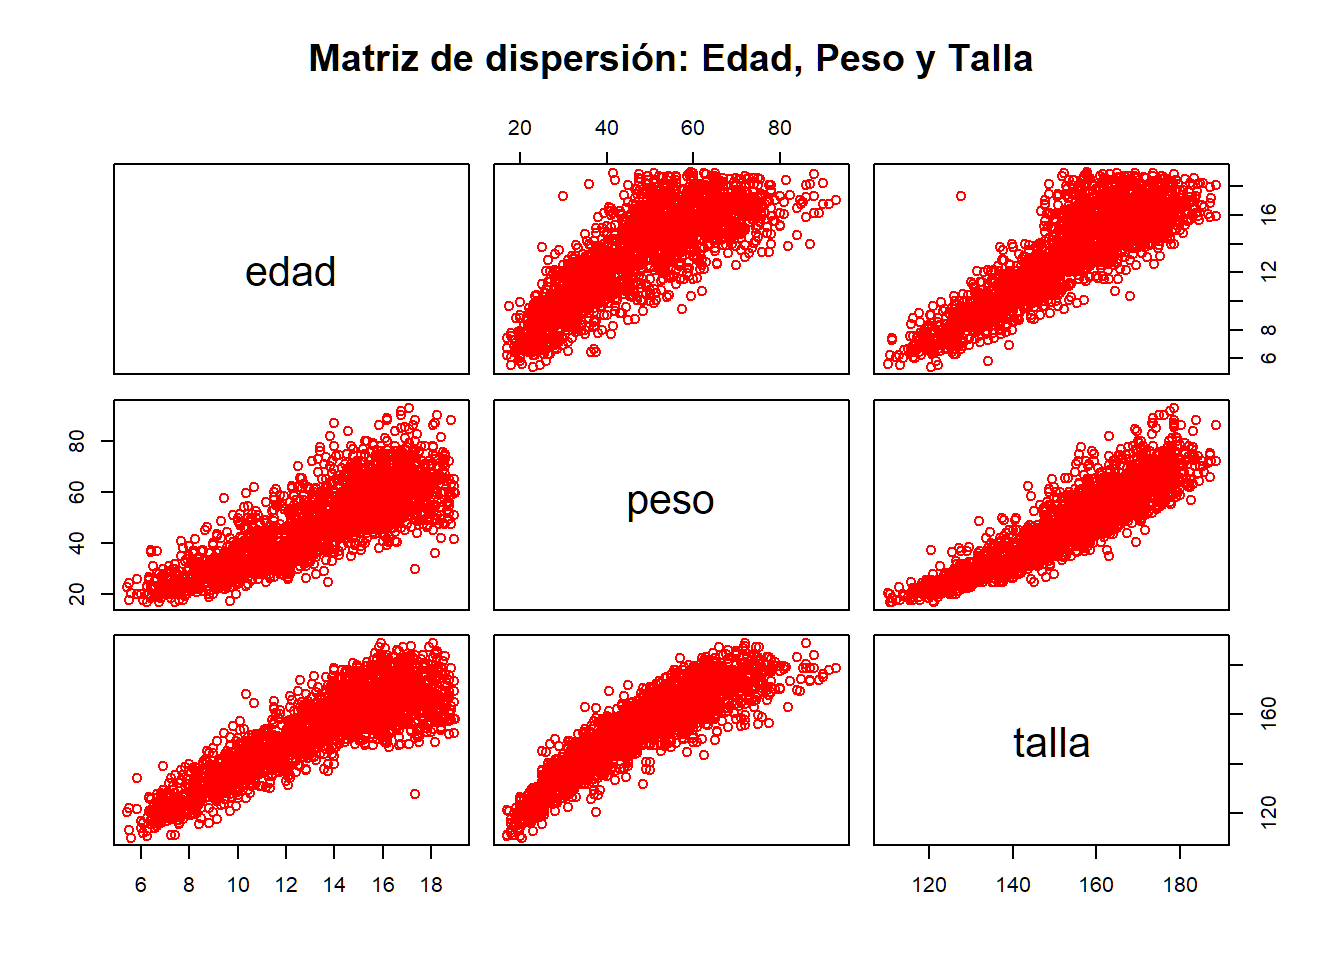
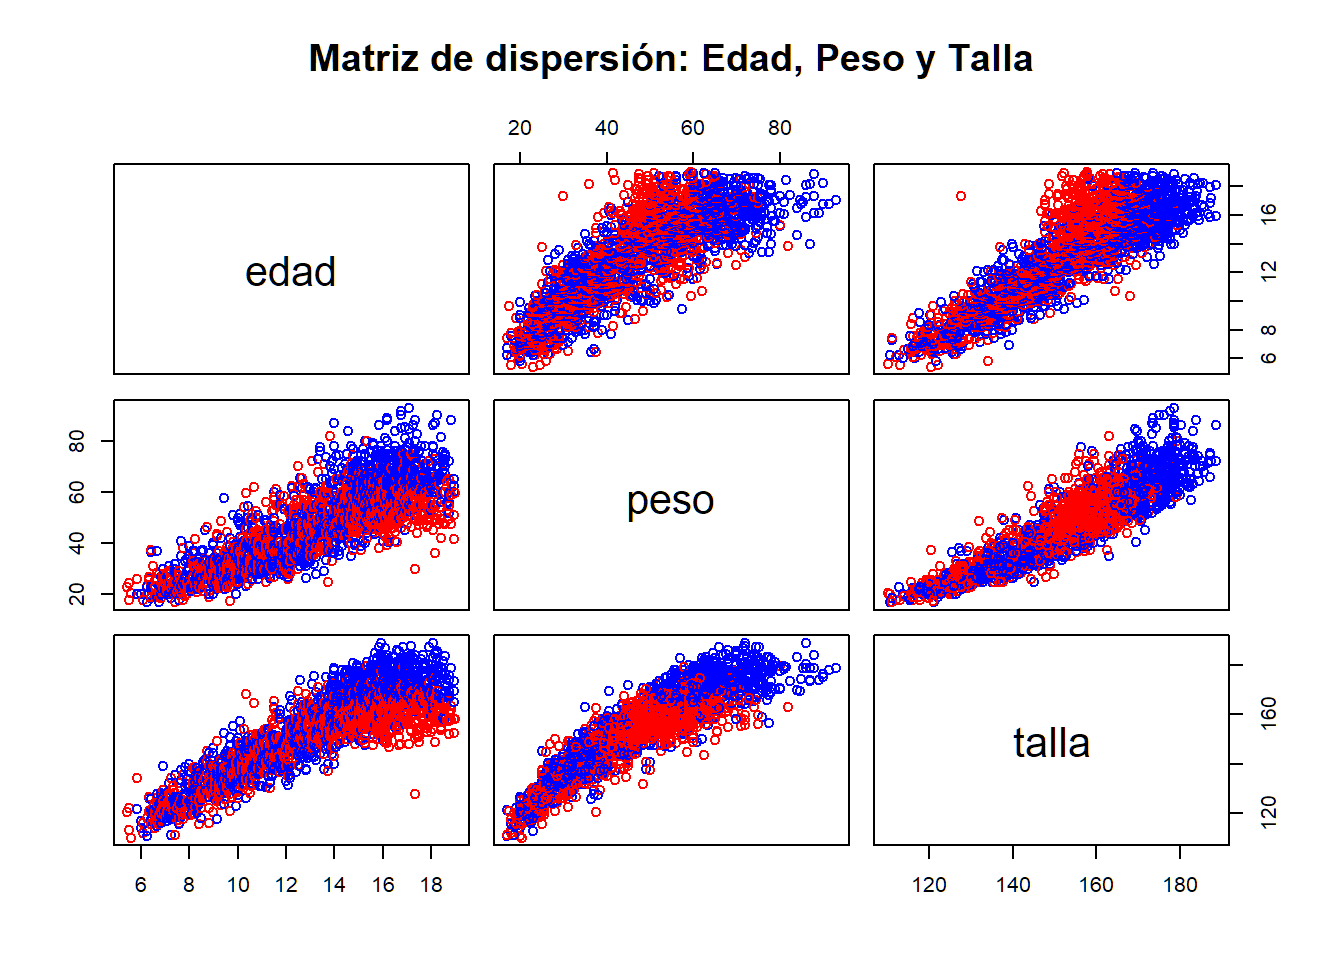
Segundo despliegueg

diff --git a/docs/G_tabla_frecuencias.html b/docs/G_tabla_frecuencias.html
@@ -704,38 +704,51 @@ límite superior</strong> <code>(a,b]</code>.</p>
 </ul>
 <p>3⃣ <code>temp_intervalos</code> → factor con el <strong>intervalo
 asignado a cada temperatura</strong>.</p>
+<hr />
 </div>
-<div id="aplicación-práctica-en-pediatría" class="section level3">
-<h3>Aplicación práctica en Pediatría</h3>
-<p>Podemos usar <code>aggregate()</code> para resumir datos numéricos
-según los intervalos de edad creados.</p>
+</div>
+<div id="aplicación-práctica-en-pediatría" class="section level2">
+<h2>Aplicación práctica en Pediatría</h2>
+<p>Este código es un clásico de la <strong>bioestadística</strong>.
+Básicamente, estás pasando de tener datos de niños sueltos a tener un
+“perfil promedio” de cómo crecen año tras año.</p>
+<p><strong>Contexto:</strong> Dispones de un conjunto de datos clínico
+llamado <code>children.csv</code> que contiene mediciones físicas (peso,
+altura, etc.) de una muestra de pacientes en edad de crecimiento. El
+objetivo es analizar cómo evolucionan estos indicadores de salud a
+<strong>medida que los niños maduran (<code>edad</code>).</strong></p>
+<p><strong>Instrucciones:</strong></p>
+<ol style="list-style-type: decimal">
+<li><p><strong>Importación:</strong> Se carga el conjunto de datos
+<code>children.csv</code>, utilizando el formato europeo de CSV (punto y
+coma) que contiene la <strong>columna <code>edad</code></strong> y otras
+varias variables numéricas (peso, altura, talla, etc.).</p>
 <ul>
-<li><p><strong>Lectura de datos</strong><br />
-Se carga el conjunto de datos <code>children.csv</code>, que contiene la
-columna <code>edad</code> y varias variables numéricas (peso, altura,
-talla, etc.).</p></li>
-<li><p><strong>Agrupación por intervalos</strong><br />
-Se crean intervalos de edad de 1 año (por ejemplo, de 5 a 19 años)
-utilizando la función <code>cut()</code>. Cada niño queda asignado al
-intervalo correspondiente según su edad.</p></li>
-<li><p><strong>Cálculo de medias</strong><br />
-Se calcula la media de cada variable numérica para cada intervalo de
-edad con <code>aggregate()</code>, ignorando valores faltantes. Esto
-genera un resumen donde cada fila representa un intervalo y cada columna
-la media de una variable.</p></li>
-<li><p><strong>Frecuencia de intervalos (opcional)</strong><br />
-Se puede comprobar cuántos niños hay en cada intervalo para interpretar
-correctamente las medias.</p></li>
+<li>Hacemos un <code>head()</code></li>
+</ul></li>
+</ol>
+<div class="sourceCode" id="cb31"><pre class="sourceCode r"><code class="sourceCode r"><span id="cb31-1"><a href="#cb31-1" tabindex="-1"></a><span class="co"># Paso 1: Importación</span></span>
+<span id="cb31-2"><a href="#cb31-2" tabindex="-1"></a>pediatria <span class="ot">&lt;-</span> <span class="fu">read.csv2</span>(<span class="st">&quot;children.csv&quot;</span>)</span>
+<span id="cb31-3"><a href="#cb31-3" tabindex="-1"></a><span class="fu">head</span>(pediatria)</span></code></pre></div>
+<pre><code>##     sexo edad peso talla
+## 1 hembra 5.42 23.0 120.5
+## 2 hembra 5.50 24.5 122.0
+## 3 hembra 5.50 18.0 113.0
+## 4 hembra 5.58 20.5 110.0
+## 5 hembra 5.83 26.0 134.2
+## 6  varon 5.83 20.0 121.5</code></pre>
+<ol start="2" style="list-style-type: decimal">
+<li><strong>Segmentación/agrupación:</strong> Queremos saber como
+evolucionan por tramos/segmentos/breaks de edad.</li>
+</ol>
+<ul>
+<li>Se crean <strong>intervalos</strong> de edad de 1 año (por ejemplo,
+desde 5 a 19 años) utilizando la función <code>cut()</code>. Cada niño
+queda asignado al intervalo correspondiente según su edad.</li>
 </ul>
-<div class="sourceCode" id="cb31"><pre class="sourceCode r"><code class="sourceCode r"><span id="cb31-1"><a href="#cb31-1" tabindex="-1"></a>pediatria <span class="ot">&lt;-</span> <span class="fu">read.csv2</span>(<span class="st">&quot;children.csv&quot;</span>)</span>
-<span id="cb31-2"><a href="#cb31-2" tabindex="-1"></a></span>
-<span id="cb31-3"><a href="#cb31-3" tabindex="-1"></a><span class="co"># Creamos intervalos de edad de 1 en 1 año (de 5 a 19)</span></span>
-<span id="cb31-4"><a href="#cb31-4" tabindex="-1"></a>edad_intervalos <span class="ot">&lt;-</span> <span class="fu">cut</span>(pediatria<span class="sc">$</span>edad, <span class="at">breaks =</span> <span class="fu">seq</span>(<span class="dv">5</span>, <span class="dv">19</span>))</span>
-<span id="cb31-5"><a href="#cb31-5" tabindex="-1"></a></span>
-<span id="cb31-6"><a href="#cb31-6" tabindex="-1"></a><span class="co"># Calculamos la media de todas las variables numéricas por cada grupo de edad</span></span>
-<span id="cb31-7"><a href="#cb31-7" tabindex="-1"></a>resumen_edad <span class="ot">&lt;-</span> <span class="fu">aggregate</span>(pediatria[, <span class="sc">-</span><span class="dv">1</span>], <span class="at">by =</span> <span class="fu">list</span>(<span class="at">edad =</span> edad_intervalos), </span>
-<span id="cb31-8"><a href="#cb31-8" tabindex="-1"></a>                          <span class="at">FUN =</span> mean, <span class="at">na.rm =</span> <span class="cn">TRUE</span>)</span></code></pre></div>
-<div class="sourceCode" id="cb32"><pre class="sourceCode r"><code class="sourceCode r"><span id="cb32-1"><a href="#cb32-1" tabindex="-1"></a>edad_intervalos</span></code></pre></div>
+<div class="sourceCode" id="cb33"><pre class="sourceCode r"><code class="sourceCode r"><span id="cb33-1"><a href="#cb33-1" tabindex="-1"></a><span class="co"># Paso 2: Segmentación: Creamos intervalos de edad de 1 en 1 año (de 5 a 19)</span></span>
+<span id="cb33-2"><a href="#cb33-2" tabindex="-1"></a>edad_intervalos <span class="ot">&lt;-</span> <span class="fu">cut</span>(pediatria<span class="sc">$</span>edad, <span class="at">breaks =</span> <span class="fu">seq</span>(<span class="dv">5</span>, <span class="dv">19</span>))</span>
+<span id="cb33-3"><a href="#cb33-3" tabindex="-1"></a>edad_intervalos</span></code></pre></div>
 <pre><code>##    [1] (5,6]   (5,6]   (5,6]   (5,6]   (5,6]   (5,6]   (5,6]   (5,6]   (6,7]  
 ##   [10] (6,7]   (6,7]   (6,7]   (6,7]   (6,7]   (6,7]   (6,7]   (6,7]   (6,7]  
 ##   [19] (6,7]   (6,7]   (6,7]   (6,7]   (6,7]   (6,7]   (6,7]   (6,7]   (6,7]  
@@ -998,7 +1011,27 @@ correctamente las medias.</p></li>
 ## [2332] (18,19] (18,19] (18,19] (18,19] (18,19] (18,19] (18,19] (18,19] (18,19]
 ## [2341] (18,19] (18,19] (18,19] (18,19] (18,19]
 ## 14 Levels: (5,6] (6,7] (7,8] (8,9] (9,10] (10,11] (11,12] (12,13] ... (18,19]</code></pre>
-<div class="sourceCode" id="cb34"><pre class="sourceCode r"><code class="sourceCode r"><span id="cb34-1"><a href="#cb34-1" tabindex="-1"></a>resumen_edad</span></code></pre></div>
+<p>Por ejemplo: el primer niño de 5,42 años se encuentra en el intervalo
+(5, 6]</p>
+<ol start="3" style="list-style-type: decimal">
+<li><strong>Cálculo de medias:</strong> Se calcula la
+<strong>media</strong> de <strong>cada variable numérica para cada
+intervalo de edad</strong> con <code>aggregate()</code>, ignorando
+valores faltantes. Esto genera un resumen donde cada fila representa un
+intervalo y cada columna la media de una variable.</li>
+</ol>
+<ul>
+<li>Se usa <code>aggregate()</code> para resumir datos numéricos según
+los intervalos de edad creados.</li>
+</ul>
+<div class="sourceCode" id="cb35"><pre class="sourceCode r"><code class="sourceCode r"><span id="cb35-1"><a href="#cb35-1" tabindex="-1"></a><span class="co"># Paso 3: Cálculo de medias: calculamos la media de todas las variables numéricas por cada grupo de edad</span></span>
+<span id="cb35-2"><a href="#cb35-2" tabindex="-1"></a>resumen_edad <span class="ot">&lt;-</span> <span class="fu">aggregate</span>(pediatria[, <span class="sc">-</span><span class="dv">1</span>], <span class="at">by =</span> <span class="fu">list</span>(<span class="at">edad =</span> edad_intervalos), <span class="at">FUN =</span> mean, <span class="at">na.rm =</span> <span class="cn">TRUE</span>)</span></code></pre></div>
+<ol start="4" style="list-style-type: decimal">
+<li><strong>Frecuencia de intervalos (opcional)</strong><br />
+Se puede comprobar cuántos niños hay en cada intervalo para interpretar
+correctamente las medias.</li>
+</ol>
+<div class="sourceCode" id="cb36"><pre class="sourceCode r"><code class="sourceCode r"><span id="cb36-1"><a href="#cb36-1" tabindex="-1"></a>resumen_edad</span></code></pre></div>
 <pre><code>##       edad      edad     peso    talla
 ## 1    (5,6]  5.707500 21.50000 118.9500
 ## 2    (6,7]  6.649310 23.40517 120.3414
@@ -1014,16 +1047,6 @@ correctamente las medias.</p></li>
 ## 12 (16,17] 16.511189 59.91294 167.2969
 ## 13 (17,18] 17.505679 61.77654 167.1420
 ## 14 (18,19] 18.438681 62.06264 167.5692</code></pre>
-<pre><code>
----
-
-### Cambios clave realizados:
-* **Claridad Terminológica:** He añadido la notación estándar ($n_i, N_i, f_i, F_i$) para que el código sea académicamente riguroso.
-* **Estructura:** Se ha separado el código en bloques lógicos, facilitando la ejecución paso a paso.
-* **Legibilidad:** He renombrado variables (como `temp2` a `temp_intervalos`) para que el código sea &quot;autodocumentado&quot;.
-* **Buenas prácticas:** Se ha incluido `na.rm = TRUE` en el ejemplo de `aggregate`, que es esencial para que el código no falle si faltan datos en el dataset de pediatría.
-</code></pre>
-</div>
 </div>
 
 

diff --git a/docs/F_coeficiente_correlacion.html b/docs/F_coeficiente_correlacion.html
@@ -463,17 +463,22 @@ relevante para el cálculo numérico).</p>
 <div id="matriz-de-gráficos-de-dispersión-pairs-plot"
 class="section level3">
 <h3>2. Matriz de gráficos de dispersión (Pairs Plot)</h3>
+<p>Con <code>pairs()</code> hacemos la matriz de gráficos de
+dispersión</p>
+<div class="sourceCode" id="cb7"><pre class="sourceCode r"><code class="sourceCode r"><span id="cb7-1"><a href="#cb7-1" tabindex="-1"></a><span class="fu">pairs</span>(pediatria_clean)</span></code></pre></div>
+<p><img src="F_coeficiente_correlacion_files/figure-html/unnamed-chunk-4-1.png" alt="" width="672" /></p>
+<p><strong>Mejorar la visualización:</strong></p>
 <p>Para visualizar las relaciones, utilizaremos la función
 <code>pairs()</code>. Añadimos color para diferenciar por la variable
 <code>sexo</code>.</p>
-<div class="sourceCode" id="cb7"><pre class="sourceCode r"><code class="sourceCode r"><span id="cb7-1"><a href="#cb7-1" tabindex="-1"></a><span class="co"># Definimos colores según el sexo (ajusta la columna según tu dataset)</span></span>
-<span id="cb7-2"><a href="#cb7-2" tabindex="-1"></a>colores <span class="ot">&lt;-</span> <span class="fu">ifelse</span>(pediatria<span class="sc">$</span>sexo <span class="sc">==</span> <span class="st">&quot;M&quot;</span>, <span class="st">&quot;blue&quot;</span>, <span class="st">&quot;red&quot;</span>) </span>
-<span id="cb7-3"><a href="#cb7-3" tabindex="-1"></a></span>
-<span id="cb7-4"><a href="#cb7-4" tabindex="-1"></a><span class="co"># Representamos las variables de interés: edad, peso y talla</span></span>
-<span id="cb7-5"><a href="#cb7-5" tabindex="-1"></a><span class="co"># Nota: Asegúrate de que los nombres de las columnas coincidan con tu CSV</span></span>
-<span id="cb7-6"><a href="#cb7-6" tabindex="-1"></a><span class="fu">pairs</span>(pediatria_clean[, <span class="fu">c</span>(<span class="st">&quot;edad&quot;</span>, <span class="st">&quot;peso&quot;</span>, <span class="st">&quot;talla&quot;</span>)], </span>
-<span id="cb7-7"><a href="#cb7-7" tabindex="-1"></a>      <span class="at">col =</span> colores, </span>
-<span id="cb7-8"><a href="#cb7-8" tabindex="-1"></a>      <span class="at">main =</span> <span class="st">&quot;Matriz de dispersión: Edad, Peso y Talla&quot;</span>)</span></code></pre></div>
+<div class="sourceCode" id="cb8"><pre class="sourceCode r"><code class="sourceCode r"><span id="cb8-1"><a href="#cb8-1" tabindex="-1"></a><span class="co"># Definimos colores según el sexo (ajusta la columna según tu dataset)</span></span>
+<span id="cb8-2"><a href="#cb8-2" tabindex="-1"></a>colores <span class="ot">&lt;-</span> <span class="fu">ifelse</span>(pediatria<span class="sc">$</span>sexo <span class="sc">==</span> <span class="st">&quot;varon&quot;</span>, <span class="st">&quot;blue&quot;</span>, <span class="st">&quot;red&quot;</span>) </span>
+<span id="cb8-3"><a href="#cb8-3" tabindex="-1"></a></span>
+<span id="cb8-4"><a href="#cb8-4" tabindex="-1"></a><span class="co"># Representamos las variables de interés: edad, peso y talla</span></span>
+<span id="cb8-5"><a href="#cb8-5" tabindex="-1"></a><span class="co"># Nota: Asegúrate de que los nombres de las columnas coincidan con tu CSV</span></span>
+<span id="cb8-6"><a href="#cb8-6" tabindex="-1"></a><span class="fu">pairs</span>(pediatria_clean[, <span class="fu">c</span>(<span class="st">&quot;edad&quot;</span>, <span class="st">&quot;peso&quot;</span>, <span class="st">&quot;talla&quot;</span>)], </span>
+<span id="cb8-7"><a href="#cb8-7" tabindex="-1"></a>      <span class="at">col =</span> colores, </span>
+<span id="cb8-8"><a href="#cb8-8" tabindex="-1"></a>      <span class="at">main =</span> <span class="st">&quot;Matriz de dispersión: Edad, Peso y Talla&quot;</span>)</span></code></pre></div>
 <p><img src="F_coeficiente_correlacion_files/figure-html/grafico-dispersion-1.png" alt="" width="672" /></p>
 </div>
 <div id="coeficiente-de-correlación" class="section level3">
@@ -496,16 +501,21 @@ negativo) te distraiga.</p></li>
 <li><p><strong><code>print(...)</code></strong>: Muestra la matriz final
 en la consola para que puedas leer los coeficientes.</p></li>
 </ol>
-<div class="sourceCode" id="cb8"><pre class="sourceCode r"><code class="sourceCode r"><span id="cb8-1"><a href="#cb8-1" tabindex="-1"></a><span class="co"># Seleccionamos solo las columnas de interés</span></span>
-<span id="cb8-2"><a href="#cb8-2" tabindex="-1"></a>vars_interes <span class="ot">&lt;-</span> pediatria_clean[, <span class="fu">c</span>(<span class="st">&quot;edad&quot;</span>, <span class="st">&quot;peso&quot;</span>, <span class="st">&quot;talla&quot;</span>)]</span>
-<span id="cb8-3"><a href="#cb8-3" tabindex="-1"></a></span>
-<span id="cb8-4"><a href="#cb8-4" tabindex="-1"></a><span class="co"># Calculamos la matriz de correlación</span></span>
-<span id="cb8-5"><a href="#cb8-5" tabindex="-1"></a>matriz_corr <span class="ot">&lt;-</span> <span class="fu">cor</span>(vars_interes, <span class="at">use =</span> <span class="st">&quot;complete.obs&quot;</span>)</span>
-<span id="cb8-6"><a href="#cb8-6" tabindex="-1"></a></span>
-<span id="cb8-7"><a href="#cb8-7" tabindex="-1"></a><span class="co"># Si deseas ver el valor absoluto como en tu ejemplo original:</span></span>
-<span id="cb8-8"><a href="#cb8-8" tabindex="-1"></a>corr_abs <span class="ot">&lt;-</span> <span class="fu">abs</span>(matriz_corr)</span>
-<span id="cb8-9"><a href="#cb8-9" tabindex="-1"></a></span>
-<span id="cb8-10"><a href="#cb8-10" tabindex="-1"></a><span class="fu">print</span>(corr_abs)</span></code></pre></div>
+<div class="sourceCode" id="cb9"><pre class="sourceCode r"><code class="sourceCode r"><span id="cb9-1"><a href="#cb9-1" tabindex="-1"></a><span class="co"># Seleccionamos solo las columnas de interés</span></span>
+<span id="cb9-2"><a href="#cb9-2" tabindex="-1"></a>vars_interes <span class="ot">&lt;-</span> pediatria_clean[, <span class="fu">c</span>(<span class="st">&quot;edad&quot;</span>, <span class="st">&quot;peso&quot;</span>, <span class="st">&quot;talla&quot;</span>)]</span>
+<span id="cb9-3"><a href="#cb9-3" tabindex="-1"></a></span>
+<span id="cb9-4"><a href="#cb9-4" tabindex="-1"></a><span class="co"># Calculamos la matriz de correlación</span></span>
+<span id="cb9-5"><a href="#cb9-5" tabindex="-1"></a>matriz_corr <span class="ot">&lt;-</span> <span class="fu">cor</span>(vars_interes, <span class="at">use =</span> <span class="st">&quot;complete.obs&quot;</span>)</span>
+<span id="cb9-6"><a href="#cb9-6" tabindex="-1"></a></span>
+<span id="cb9-7"><a href="#cb9-7" tabindex="-1"></a><span class="co"># Si deseas ver el valor absoluto como en tu ejemplo original:</span></span>
+<span id="cb9-8"><a href="#cb9-8" tabindex="-1"></a>corr_abs <span class="ot">&lt;-</span> <span class="fu">abs</span>(matriz_corr)</span>
+<span id="cb9-9"><a href="#cb9-9" tabindex="-1"></a></span>
+<span id="cb9-10"><a href="#cb9-10" tabindex="-1"></a><span class="fu">print</span>(corr_abs)</span></code></pre></div>
+<pre><code>##            edad      peso     talla
+## edad  1.0000000 0.8194018 0.8667918
+## peso  0.8194018 1.0000000 0.9031220
+## talla 0.8667918 0.9031220 1.0000000</code></pre>
+<div class="sourceCode" id="cb11"><pre class="sourceCode r"><code class="sourceCode r"><span id="cb11-1"><a href="#cb11-1" tabindex="-1"></a><span class="fu">cor</span>(pediatria_clean)</span></code></pre></div>
 <pre><code>##            edad      peso     talla
 ## edad  1.0000000 0.8194018 0.8667918
 ## peso  0.8194018 1.0000000 0.9031220
